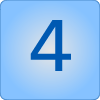
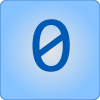
Update MemoGame

Changed region(s): [[0.3, 0.18, 0.72, 0.72]]

diff --git a/MemoGame/src/gui/Game.java b/MemoGame/src/gui/Game.java
@@ -38,6 +38,7 @@ public class Game extends javax.swing.JFrame {
         MenuNewGame = new javax.swing.JMenuItem();
         MenuQuit = new javax.swing.JMenuItem();
         GameMenu = new javax.swing.JMenu();
+        NewUndefinedGame = new javax.swing.JMenuItem();
         MenuNoviceGame = new javax.swing.JMenuItem();
         MenuNormalGame = new javax.swing.JMenuItem();
 
@@ -69,6 +70,14 @@ public class Game extends javax.swing.JFrame {
         MainMenuBar.add(FileMenu);
 
         GameMenu.setText("Game");
+
+        NewUndefinedGame.setText("New");
+        NewUndefinedGame.addActionListener(new java.awt.event.ActionListener() {
+            public void actionPerformed(java.awt.event.ActionEvent evt) {
+                NewUndefinedGameActionPerformed(evt);
+            }
+        });
+        GameMenu.add(NewUndefinedGame);
 
         MenuNoviceGame.setText("New Novice");
         MenuNoviceGame.setToolTipText("");
@@ -113,43 +122,29 @@ public class Game extends javax.swing.JFrame {
 
     private void MenuNewGameActionPerformed(java.awt.event.ActionEvent evt) {//GEN-FIRST:event_MenuNewGameActionPerformed
         // TODO add your handling code here:
-        Memo.LEVEL level = null;
-        level = getAskedLevel();
-
-        if (level != null) {
-            try {
-                this.game = new Memo(level);
-            } catch (Exception ex) {
-                JOptionPane.showMessageDialog(null,
-                        ex.getMessage(),
-                        "Error!",
-                        JOptionPane.ERROR_MESSAGE);
-                Logger.getLogger(Game.class.getName()).log(Level.SEVERE, null, ex);
-            }
+        Memo.LEVEL lvl = getAskedLevel();
+        if (lvl != null) {
+            this.level = lvl;
             this.createGame();
         }
     }//GEN-LAST:event_MenuNewGameActionPerformed
 
     private void MenuNoviceGameActionPerformed(java.awt.event.ActionEvent evt) {//GEN-FIRST:event_MenuNoviceGameActionPerformed
-        try {
-            // TODO add your handling code here:
-            this.game = new Memo(Memo.LEVEL.Novice);
-        } catch (Exception ex) {
-            Logger.getLogger(Game.class.getName()).log(Level.SEVERE, null, ex);
-        }
+        // TODO add your handling code here:
+        this.level = Memo.LEVEL.Novice;
         createGame();
     }//GEN-LAST:event_MenuNoviceGameActionPerformed
 
     private void MenuNormalGameActionPerformed(java.awt.event.ActionEvent evt) {//GEN-FIRST:event_MenuNormalGameActionPerformed
         // TODO add your handling code here:
-        try {
-            // TODO add your handling code here:
-            this.game = new Memo(Memo.LEVEL.Normal);
-        } catch (Exception ex) {
-            Logger.getLogger(Game.class.getName()).log(Level.SEVERE, null, ex);
-        }
+        this.level = Memo.LEVEL.Normal;
         createGame();
     }//GEN-LAST:event_MenuNormalGameActionPerformed
+
+    private void NewUndefinedGameActionPerformed(java.awt.event.ActionEvent evt) {//GEN-FIRST:event_NewUndefinedGameActionPerformed
+        // TODO add your handling code here:
+        createGame();
+    }//GEN-LAST:event_NewUndefinedGameActionPerformed
 
     private Memo.LEVEL getAskedLevel() {
         return (Memo.LEVEL) JOptionPane.showInputDialog(null,
@@ -162,18 +157,28 @@ public class Game extends javax.swing.JFrame {
     }
 
     private void createGame() {
-        JPanel containerPanel = new JPanel();
-        JPanel panel = new JPanel(new GridLayout(this.game.rows(), this.game.cols(), 10, 10));
-        for (Card c : this.game.cards()) {
-            panel.add(c);
-            Logger.getLogger(Game.class.getName()).log(Level.INFO, "Added " + c);
-        }
-        containerPanel.add(panel);
-        this.setContentPane(containerPanel);
-        this.setResizable(false);
-        this.pack();
+        // check if level is correct
+        if (!Memo.isLevel(this.level)) {
+            JOptionPane.showMessageDialog(null,
+                    "Oups, the given level is unrecognized. Please try to start a new game.",
+                    "Error!",
+                    JOptionPane.ERROR_MESSAGE);
+            Logger.getLogger(Game.class.getName()).log(Level.SEVERE, "Level " + this.level + " not recognized!");
+        } else {
+            this.game = new Memo(this.level);
+            JPanel containerPanel = new JPanel();
+            JPanel panel = new JPanel(new GridLayout(this.game.rows(), this.game.cols(), 10, 10));
+            for (Card c : this.game.cards()) {
+                panel.add(c);
+                Logger.getLogger(Game.class.getName()).log(Level.INFO, "Added " + c);
+            }
+            containerPanel.add(panel);
+            this.setContentPane(containerPanel);
+            this.setResizable(false);
+            this.pack();
 
-        Logger.getLogger(Game.class.getName()).log(Level.INFO, "Initialization done for new game");
+            Logger.getLogger(Game.class.getName()).log(Level.INFO, "Initialization done for new game");
+        }
     }
 
     /**
@@ -218,6 +223,8 @@ public class Game extends javax.swing.JFrame {
     private javax.swing.JMenuItem MenuNormalGame;
     private javax.swing.JMenuItem MenuNoviceGame;
     private javax.swing.JMenuItem MenuQuit;
+    private javax.swing.JMenuItem NewUndefinedGame;
     // End of variables declaration//GEN-END:variables
     private Memo game;
+    private Memo.LEVEL level;
 }

diff --git a/MemoGame/src/gui/Card.java b/MemoGame/src/gui/Card.java
@@ -4,7 +4,10 @@
  */
 package gui;
 
+import core.Memo;
 import java.awt.Graphics;
+import java.util.logging.Level;
+import java.util.logging.Logger;
 import javax.swing.ImageIcon;
 
 /**
@@ -12,25 +15,46 @@ import javax.swing.ImageIcon;
  * @author Nicolas Devenet <nicolas@devenet.info>
  */
 public class Card extends javax.swing.JPanel {
+    
+    public enum STATE {
+        HIDDEN, VISIBLE, MATCHED
+    }
 
-    private static final String backImageName = "back.png";
-    private int ID = 0; // to transform in FINAL
+    private final int value;
+    private STATE state;
+    private final ImageIcon backImage, headsImage;
 
     /**
      * Creates new form GameBoard
      */
-    public Card(int ID) {
-        this.ID = ID;
+    public Card(int value) {
+        this.value = value;
+        this.state = STATE.HIDDEN;
         initComponents();
-        this.myLabel.setText(Integer.toString(ID));
+        this.backImage = new ImageIcon(this.getClass().getClassLoader().getResource("res/back.png"));
+        this.headsImage = new ImageIcon(this.getClass().getClassLoader().getResource("res/" + value + ".png"));
+        this.myLabel.setText(Integer.toString(value));
+    }
+    
+    public void updateState(STATE state) {
+        if (this.state != STATE.MATCHED) {
+            this.state = state;
+            this.repaint();
+            Logger.getLogger(Card.class.getName()).log(Level.INFO, this+" updated to state "+this.state);
+        }
     }
 
     @Override
     public void paintComponent(Graphics g) {
         super.paintComponent(g);
-        g.drawImage(new ImageIcon(this.getClass().getClassLoader().getResource("res/" + backImageName)).getImage(), 0, 0, this);
+        if (this.state != STATE.HIDDEN) {
+            g.drawImage(this.headsImage.getImage(), 0, 0, this);
+        } else {
+            g.drawImage(this.backImage.getImage(), 0, 0, this);
+        }
     }
 
+    /*
     @Override
     public boolean equals(Object o) {
         if (o == this) {
@@ -40,13 +64,14 @@ public class Card extends javax.swing.JPanel {
             return false;
         }
         Card c = (Card) o;
-        return ID == c.ID;
+        return value == c.value;
     }
+    * */
 
     @Override
     public String toString() {
         StringBuilder tmp = new StringBuilder("Card(")
-                .append(ID)
+                .append(value)
                 .append(")");
         return tmp.toString();
     }
@@ -93,6 +118,7 @@ public class Card extends javax.swing.JPanel {
 
     private void formMouseClicked(java.awt.event.MouseEvent evt) {//GEN-FIRST:event_formMouseClicked
         // TODO add your handling code here:
+        Logger.getLogger(Card.class.getName()).log(Level.INFO, this+" clicked on state "+this.state);
     }//GEN-LAST:event_formMouseClicked
     // Variables declaration - do not modify//GEN-BEGIN:variables
     private javax.swing.JLabel myLabel;

diff --git a/MemoGame/src/core/Memo.java b/MemoGame/src/core/Memo.java
@@ -15,38 +15,43 @@ public class Memo {
     public enum LEVEL {
         Novice, Normal, Intermediary, Expert
     }
-    private final LEVEL level;
+    public static boolean isLevel(LEVEL level) {
+        for (LEVEL l : LEVEL.values()) {
+            if (l.equals(level)) {
+                return true;
+            }
+        }
+        return false;
+    }
+    
     private final int rows;
     private final int cols;
     private Couple[] couples;
     private Card[] cards;
 
-    public Memo(LEVEL level) throws Exception {
+    public Memo(LEVEL level) {
         switch (level) {
-            case Novice:
-                this.rows = 2;
-                this.cols = 3;
-                break;
-                
             case Normal:
                 this.rows = 4;
                 this.cols = 5;
                 break;
-                
+
             case Intermediary:
                 this.rows = 6;
                 this.cols = 6;
                 break;
-                
+
             case Expert:
                 this.rows = 6;
                 this.cols = 8;
                 break;
-                
+
+            case Novice:
             default:
-                throw new Exception("Unrecognized level");
+                this.rows = 2;
+                this.cols = 3;
+                break;
         }
-        this.level = level;
 
         // create couple with two "same" cards
         this.couples = new Couple[this.numberCouples()];
@@ -59,9 +64,13 @@ public class Memo {
         for (Couple c : this.couples) {
             int left_position = (int) (Math.random() * (numberCards));
             int right_position = (int) (Math.random() * (numberCards));
-            while (this.cards[left_position] != null) { left_position = (int) (Math.random() * (numberCards)); }
+            while (this.cards[left_position] != null) {
+                left_position = (int) (Math.random() * (numberCards));
+            }
             this.cards[left_position] = c.left();
-            while (this.cards[right_position] != null) { right_position = (int) (Math.random() * (numberCards)); }
+            while (this.cards[right_position] != null) {
+                right_position = (int) (Math.random() * (numberCards));
+            }
             this.cards[right_position] = c.right();
         }
     }
@@ -81,7 +90,7 @@ public class Memo {
     public final int numberCouples() {
         return this.numberCards() / 2;
     }
-    
+
     public Card[] cards() {
         return this.cards;
     }

diff --git a/MemoGame/src/core/Couple.java b/MemoGame/src/core/Couple.java
@@ -14,12 +14,12 @@ public class Couple {
 
     private Card left;
     private Card right;
-    private final int ID;
+    private final int value;
 
-    public Couple(int ID) {
-        this.ID = ID;
-        this.left = new Card(ID);
-        this.right = new Card(ID);
+    public Couple(int value) {
+        this.value = value;
+        this.left = new Card(value);
+        this.right = new Card(value);
     }
 
     public boolean matched(Card left, Card right) {
